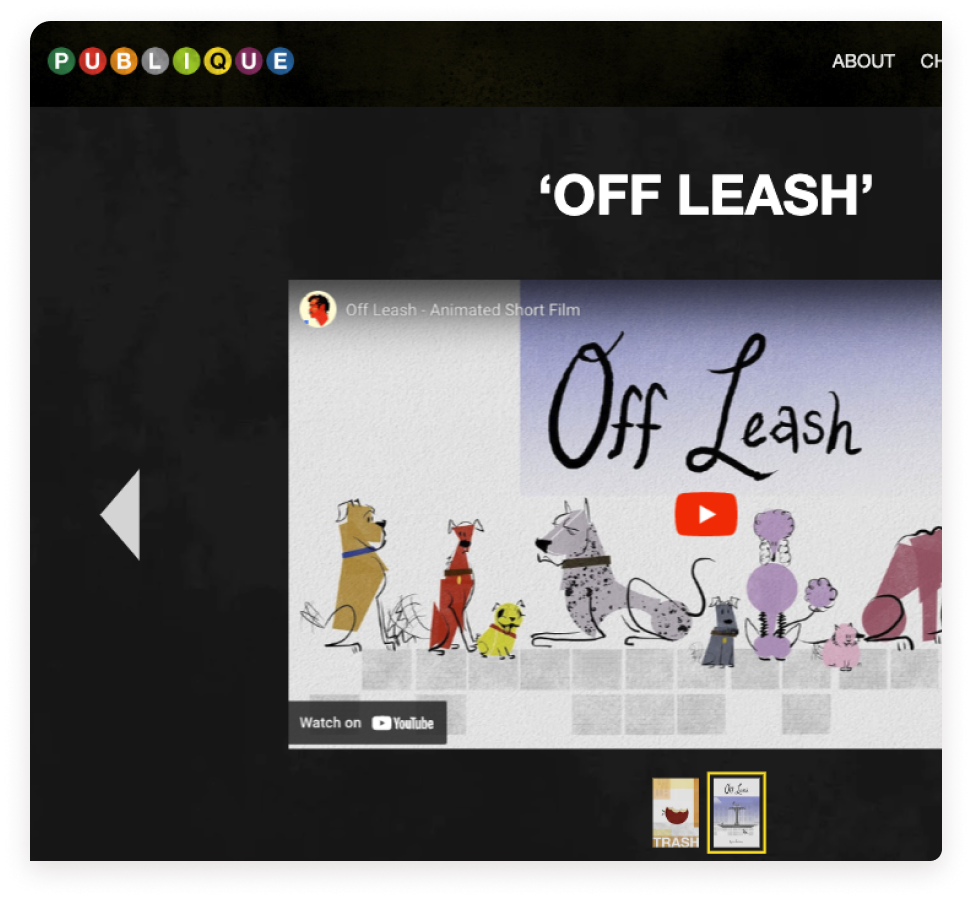
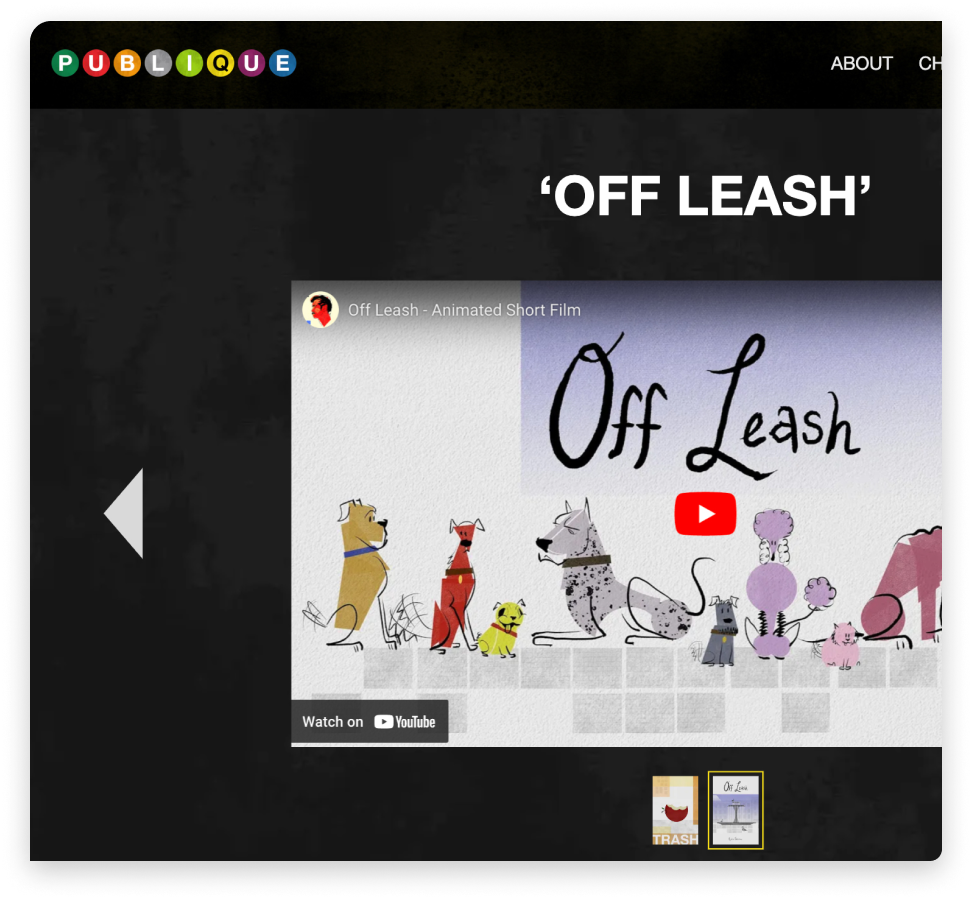
feat: laptop carousel

diff --git a/src/constants/data.ts b/src/constants/data.ts
@@ -133,7 +133,7 @@ export const clients: Client[] = [
     carousel : [
       {
         name: "Scum",
-        backgroundColor: "!bg-slimes-gradient",
+        backgroundColor: "!bg-slimes-bg",
         textColor: "!text-slimes-text",
         borderColor: "!border-slimes-text",
         fillColor: "!fill-slimes-text",
@@ -142,8 +142,8 @@ export const clients: Client[] = [
         href: "https://slimes.xyz/",
       },
       {
-        name: "Scum",
-        backgroundColor: "!bg-somos-gradient",
+        name: "Matt Martinez",
+        backgroundColor: "!bg-somos-bg",
         textColor: "!text-somos-text",
         borderColor: "!border-somos-text",
         fillColor: "!fill-somos-text",
@@ -165,7 +165,7 @@ export const clients: Client[] = [
     exchangeArt: "https://exchange.art/shilstone-arts/series",
     carousel : [{
       name: "Robbie Shilstone",
-      backgroundColor: "!bg-robbie-gradient",
+      backgroundColor: "!bg-robbie-bg",
       textColor: "!text-robbie-text",
       borderColor: "!border-robbie-text",
       fillColor: "!fill-robbie-text",
@@ -186,7 +186,7 @@ export const clients: Client[] = [
     exchangeArt: "https://exchange.art/caldermoore/series",
     carousel : [{
       name: "Calder Moore",
-      backgroundColor: "!bg-calder-gradient",
+      backgroundColor: "!bg-calder-bg",
       textColor: "!text-calder-text",
       borderColor: "!border-calder-text",
       fillColor: "!fill-calder-text",
@@ -207,7 +207,7 @@ export const clients: Client[] = [
     tensor: "https://www.tensor.trade/trade/cyber_frogs",
     carousel : [{
       name: "Andy Rew",
-      backgroundColor: "!bg-andy-gradient",
+      backgroundColor: "!bg-andy-bg",
       textColor: "!text-andy-text",
       borderColor: "!border-andy-text",
       fillColor: "!fill-andy-text",
@@ -228,7 +228,7 @@ export const clients: Client[] = [
     exchangeArt: "https://exchange.art/zen0/series",
     carousel : [{
       name: "Zen0",
-      backgroundColor: "!bg-zen0-gradient",
+      backgroundColor: "!bg-zen0-bg",
       textColor: "!text-zen0-text",
       borderColor: "!border-zen0-text",
       fillColor: "!fill-zen0-text",
@@ -247,7 +247,7 @@ export const clients: Client[] = [
     exchangeArt: "https://exchange.art/hot-heads/nfts",
     carousel : [{
       name: "Sikedelic",
-      backgroundColor: "!bg-sike-gradient",
+      backgroundColor: "!bg-sike-bg",
       textColor: "!text-sike-text",
       borderColor: "!border-sike-text",
       fillColor: "!fill-sike-text",

diff --git a/src/components/organisms/CardCarousel.tsx b/src/components/organisms/CardCarousel.tsx
@@ -30,8 +30,8 @@ const CardCarousel: FC<Props> = (props: Props) => {
 
   const data: (Carousel | undefined)[] = [
     clients[0]?.carousel?.[1],
-    clients[1]?.carousel?.[0],
     clients[0]?.carousel?.[0],
+    clients[1]?.carousel?.[0],
   ].filter(Boolean);
 
   const startDragging = (e: React.MouseEvent | React.TouchEvent) => {
@@ -139,7 +139,7 @@ const CarouselItem: FC<CarouselItemProps> = (props: CarouselItemProps) => {
         className={`flex flex-col gap-1 justify-center p-10 max-w-[380px] ${data.textColor}`}
       >
         <p className="text-opacity-75 text-xl pl-0.5">{data.name}</p>
-        <h3 className="text-5xl">{data.title}</h3>
+        <h3 className="text-5xl whitespace-nowrap ">{data.title}</h3>
         <Button
           title={data.href ? "Visit Website" : "Coming Soon"}
           // link={data.href}
@@ -151,7 +151,13 @@ const CarouselItem: FC<CarouselItemProps> = (props: CarouselItemProps) => {
           callback={() => handleClick()}
         />
       </div>
-      <div className="absolute -bottom-[24px] -right-[20px] overflow-hidden z-10 w-[608px] h-[560px]">
+      <div
+        className={`absolute overflow-hidden z-10 w-[608px] h-[560px] ${
+          data.name === "Scum"
+            ? " -bottom-[23px] -right-[19px] "
+            : "-bottom-[24px] -right-[20px] "
+        }`}
+      >
         <Image
           src={data.src}
           alt={`Slide ${index}`}

diff --git a/tailwind.config.js b/tailwind.config.js
@@ -32,21 +32,27 @@ module.exports = {
         "form-background": "#2d2d2d",
         "footer-border": "#423171",
         //carousel
-        "slimes-text": "#1A3A46",
-        "somos-text": "#2A48AF",
-        "robbie-text": "#1C1C1C",
-        "calder-text": "#511F23",
-        "andy-text": "#E62E05",
-        "zen0-text": "#1A3A46",
-        "sike-text": "#EFB41C",
-        "calder-gradient": "#EDD1D3",
 
-        "slimes-gradient": "#F9D6C7",
-        "somos-gradient": "#F8B23C",
-        "robbie-gradient": "#8F8F8F",
-        "zen0-gradient": "#75FBC6",
-        "andy-gradient": "#224632",
-        "sike-gradient": "",
+        "somos-text": "#1B160B",
+        "somos-bg": "#F8B23C",
+
+        "slimes-text": "#1A3A46",
+        "slimes-bg": "#F9D6C7",
+
+        "robbie-bg": "#BABABA",
+        "robbie-text": "#1C1C1C",
+
+        "calder-text": "#511F23",
+        "calder-bg": "#EDD1D3",
+
+        "andy-text": "#E62E05",
+        "andy-bg": "#224632",
+
+        "zen0-text": "#1A3A46",
+        "zen0-bg": "#75FBC6",
+
+        "sike-text": "#EFB41C",
+        "sike-bg": "",
       },
       screens: {
         "2xs": "320px",

diff --git a/src/components/organisms/WelcomeSection.tsx b/src/components/organisms/WelcomeSection.tsx
@@ -16,7 +16,9 @@ const WelcomeSection: FC<Props> = (props: Props) => {
   return (
     <div className="left-margin">
       <div className="border-b border-custom-dark-gray inline-block">
-        <h1 className="py-5 text-2xl font-medium">EXP STUDIO</h1>
+        <h1 className="py-5 text-2xl font-medium">
+          <Link href="/">EXP STUDIO</Link>{" "}
+        </h1>
       </div>
 
       <div className="py-5 text-sm text-custom-gray">
